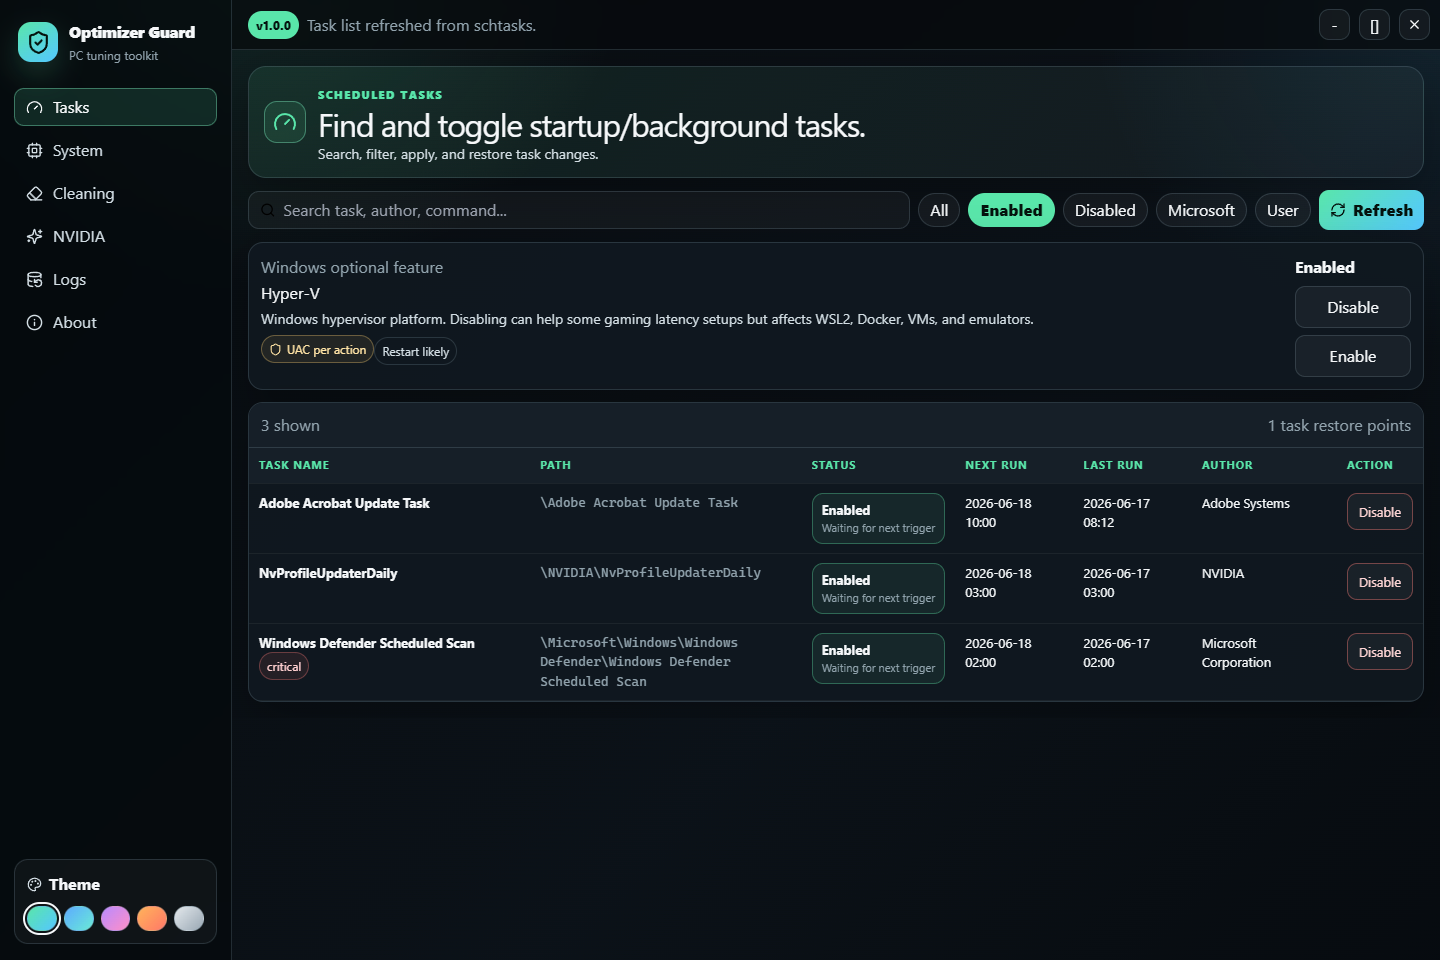
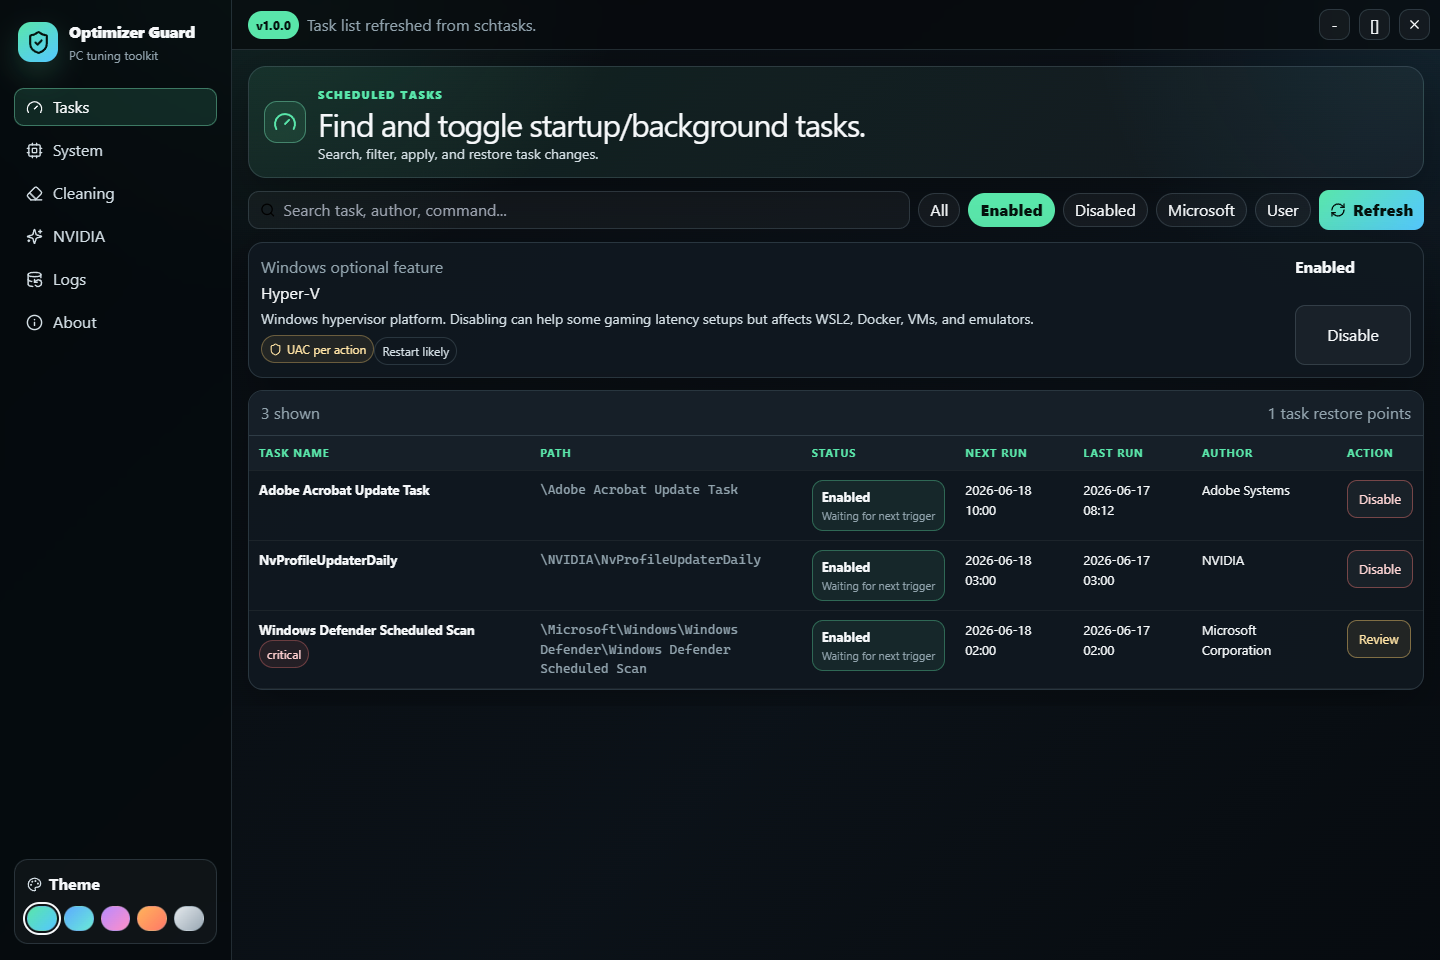
Tighten action safety UX

diff --git a/src/renderer/src/App.tsx b/src/renderer/src/App.tsx
@@ -253,7 +253,7 @@ function TaskDisabler({
     .slice(0, 500)
 
   async function toggleTask(task: ScheduledTaskRow, enable: boolean): Promise<void> {
-    if (task.critical && !window.confirm('This looks like a Microsoft/security/system task. Continue anyway?')) return
+    if (task.critical && !window.confirm(`"${task.name}" looks like a Microsoft/security/system task.\n\nChanging it can reduce Windows protection or maintenance. Continue anyway?`)) return
     await runBusy(`${enable ? 'Enabling' : 'Disabling'} ${task.path}`, async () => {
       const result = await window.optimizerGuard.setTaskState(task.path, enable)
       await refresh()
@@ -310,8 +310,14 @@ function TaskDisabler({
             </div>
             <div className="feature-actions">
               <strong>{feature.state}</strong>
-              <button onClick={() => void toggleFeature(feature, false)}>Disable</button>
-              <button onClick={() => void toggleFeature(feature, true)}>Enable</button>
+              {feature.state.toLowerCase() === 'enabled' && <button onClick={() => void toggleFeature(feature, false)}>Disable</button>}
+              {feature.state.toLowerCase() === 'disabled' && <button onClick={() => void toggleFeature(feature, true)}>Enable</button>}
+              {!['enabled', 'disabled'].includes(feature.state.toLowerCase()) && (
+                <>
+                  <button onClick={() => void toggleFeature(feature, false)}>Disable</button>
+                  <button onClick={() => void toggleFeature(feature, true)}>Enable</button>
+                </>
+              )}
             </div>
           </div>
         ))}
@@ -349,8 +355,8 @@ function TaskDisabler({
                 <td>{task.lastRun}</td>
                 <td>{task.author}</td>
                 <td>
-                  <button className={task.enabled ? 'danger-button' : 'secondary'} onClick={() => void toggleTask(task, !task.enabled)}>
-                    {task.enabled ? 'Disable' : 'Enable'}
+                  <button className={task.critical && task.enabled ? 'warn-button' : task.enabled ? 'danger-button' : 'secondary'} onClick={() => void toggleTask(task, !task.enabled)}>
+                    {task.critical && task.enabled ? 'Review' : task.enabled ? 'Disable' : 'Enable'}
                   </button>
                 </td>
               </tr>
@@ -487,7 +493,17 @@ function CleaningPanel({
       setNotice('Select at least one cleanup target first.')
       return
     }
-    if (chosen.some((target) => target.dangerous) && !window.confirm('One or more selected targets are marked dangerous. Continue?')) return
+    const risky = chosen.some((target) => target.dangerous)
+    const message = [
+      `Clean ${chosen.length} selected target${chosen.length === 1 ? '' : 's'}?`,
+      '',
+      `Estimated removable data: ${formatBytes(selectedBytes)}`,
+      'Personal folders and game saves are excluded.',
+      risky ? 'One or more selected targets are marked dangerous.' : ''
+    ]
+      .filter(Boolean)
+      .join('\n')
+    if (!window.confirm(message)) return
     const result = await runBusy('Cleaning selected targets...', () => window.optimizerGuard.cleanSelected([...selected]), 'Cleanup finished and logged.')
     if (result) setNotice(`Cleaned ${formatBytes(result.beforeBytes)}. Estimated saved: ${formatBytes(result.savedBytes)}.`)
     await scan()
@@ -580,6 +596,17 @@ function NvidiaPanel({
 
   async function apply(): Promise<void> {
     if (!profile) return
+    const selectedActionLabels = state?.actions
+      .filter((action) => {
+        const key = action.id === 'patch-nvidia-resolution' ? 'patchNvidiaAppResolution' : action.id === 'disable-overlay' ? 'disableOverlay' : action.id === 'game-mode' ? 'setGameMode' : 'disableGameDvr'
+        return actions[key]
+      })
+      .map((action) => `- ${action.label}`) ?? []
+    if (selectedActionLabels.length === 0) {
+      setNotice('Select at least one optimizer action first.')
+      return
+    }
+    if (!window.confirm(`Apply ${selectedActionLabels.length} optimizer action${selectedActionLabels.length === 1 ? '' : 's'}?\n\n${selectedActionLabels.join('\n')}`)) return
     const request: ApplyNvidiaProfileRequest = { profile, ...actions }
     const result = await runBusy('Applying selected NVIDIA and Windows gaming optimizations...', () => window.optimizerGuard.applyNvidiaProfile(request), 'NVIDIA optimizer actions finished.')
     if (result) setNotice(`Applied ${result.length} optimizer actions. DLSS profile saved inside the app.`)

diff --git a/src/renderer/src/styles/globals.css b/src/renderer/src/styles/globals.css
@@ -402,6 +402,12 @@ nav {
   color: #ffd5d5;
 }
 
+.warn-button {
+  border-color: rgba(244, 199, 107, 0.45);
+  color: #ffe4a5;
+  background: rgba(244, 199, 107, 0.08);
+}
+
 .secondary {
   border-color: color-mix(in srgb, var(--accent-2) 28%, transparent);
 }